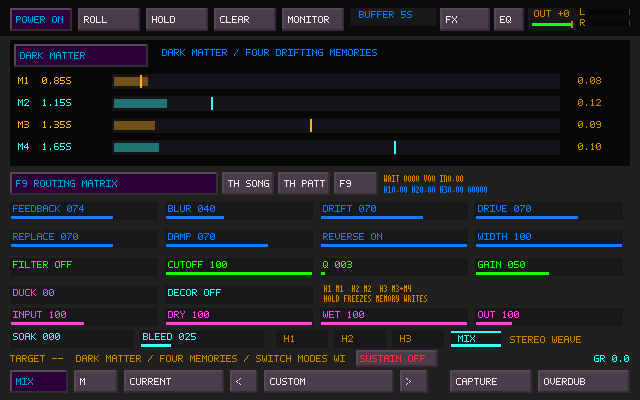
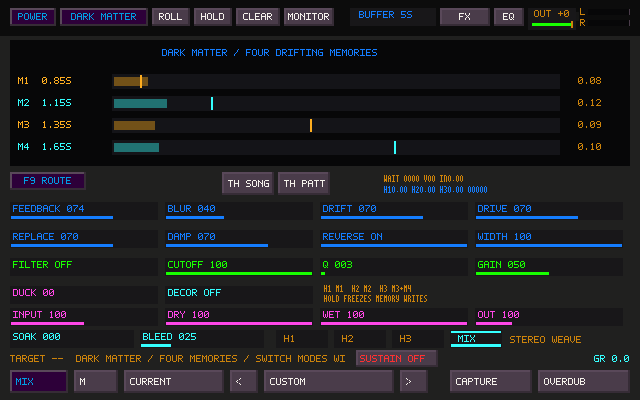
Balance Sister memory modes and compact the header controls
Latch bounded stereo RMS compensation at mode transitions while preserving
memory dynamics between switches. Move Tape/Dark Matter beside Power,
shrink the transport and F9 controls, and restore the full waveform area.

Add gain, waveform and controller regressions; refresh the native screenshot.

diff --git a/src/ts_ui.c b/src/ts_ui.c
@@ -5339,6 +5339,18 @@ static void sister_target_toggle(TsFramebuffer *fb, int x, int y, int width,
     text(fb, x + 8, y + 5, label, active ? color : PAL_MOUSE, 1);
 }
 
+static void sister_compact_button(TsFramebuffer *fb, int x, int y, int width,
+                                   const char *label, int active)
+{
+    bevel_frame(fb, x, y, width, TS_SISTER_UI_HEADER_H,
+        active ? PAL_BLOCK : PAL_BUTTON,
+        contrast_color(PAL_BUTTON, active_palette()->buttons_contrast, 1.5f),
+        contrast_color(PAL_BUTTON, active_palette()->buttons_contrast, 0.5f));
+    text(fb, x + (width - (int)strlen(label)*6)/2, y + 5, label,
+        active ? PAL_BLOCK_TEXT : ts_theme_color(active_palette(), render_group,
+            TS_COLOR_TEXT, RGB(245, 242, 235)), 1);
+}
+
 static uint32_t sister_spirit_hash(int x, int y)
 {
     uint32_t value = (uint32_t)x * UINT32_C(0x45d9f3b) ^
@@ -5537,11 +5549,17 @@ void ts_sister_ui_render(TsFramebuffer *fb, const TsSisterUiModel *model,
     master_output = master_output_from_routing(&model->routing);
     clear(fb, PAL_DESKTOP);
     rect(fb, 0, 0, TS_SISTER_UI_WIDTH, 36, ts_theme_color(active_palette(), render_group, TS_COLOR_BACKGROUND, RGB(12, 12, 12)));
-    button(fb, 10, 8, 62, model->routing.enabled ? "POWER ON" : "POWER", model->routing.enabled);
-    button(fb, 78, 8, 62, "ROLL", model->routing.rolling);
-    button(fb, 146, 8, 62, "HOLD", model->routing.held);
-    button(fb, 214, 8, 62, "CLEAR", model->engine.clear_state != TS_SISTER_CLEAR_IDLE);
-    button(fb, 282, 8, 62, "MONITOR", model->routing.monitor_enabled);
+    sister_compact_button(fb, TS_SISTER_UI_POWER_X, TS_SISTER_UI_HEADER_Y,
+        TS_SISTER_UI_POWER_W, "POWER", model->routing.enabled);
+    sister_compact_button(fb, TS_SISTER_UI_MODE_X, TS_SISTER_UI_HEADER_Y,
+        TS_SISTER_UI_MODE_W, model->parameters.memory_mode==TS_SISTER_MEMORY_DARK ?
+        "DARK MATTER" : "TAPE", model->parameters.memory_mode==TS_SISTER_MEMORY_DARK);
+    if (ts_sister_ui_parameter_locked(model,TS_DARK_PARAM_MODE))
+        rect(fb,TS_SISTER_UI_MODE_X+2,TS_SISTER_UI_HEADER_Y+2,2,2,PAL_MOUSE);
+    sister_compact_button(fb, 152, 8, 38, "ROLL", model->routing.rolling);
+    sister_compact_button(fb, 194, 8, 38, "HOLD", model->routing.held);
+    sister_compact_button(fb, 236, 8, 44, "CLEAR", model->engine.clear_state != TS_SISTER_CLEAR_IDLE);
+    sister_compact_button(fb, 284, 8, 50, "MONITOR", model->routing.monitor_enabled);
     {
         float target = model->parameters.buffer_seconds;
         float current = (float)model->engine.duration_seconds;
@@ -5557,15 +5575,15 @@ void ts_sister_ui_render(TsFramebuffer *fb, const TsSisterUiModel *model,
             snprintf(canvas, sizeof(canvas), "BUFFER %.0FS", target);
         sister_choice_parameter_state(fb, 350, 8, 86, "", canvas,
             model->engine.resize_pending, PAL_TUNING, locked);
-        rect(fb, 351, 25, (int)lrintf(84.0f * sister_clamp(amount)), 3,
+        rect(fb, 351, 23, (int)lrintf(84.0f * sister_clamp(amount)), 3,
              color);
     }
-    button(fb, 440, 8, 50,
+    sister_compact_button(fb, 440, 8, 50,
            model->fx_page == 0 ? "FX" :
            model->fx_page == 1 ? "FALL" :
            model->fx_page == 2 ? "PRISM" : "TAPE",
            model->fx_page != 0);
-    button(fb, 494, 8, 30, "EQ", 0);
+    sister_compact_button(fb, 494, 8, 30, "EQ", 0);
     master_output_fader(fb, model->routing.master_output_gain, 528, 8);
     master_output_meter(fb, &master_output, 580, 8);
     rect(fb, 576, 12, 3, 9,
@@ -5926,11 +5944,11 @@ void ts_sister_ui_render(TsFramebuffer *fb, const TsSisterUiModel *model,
     if (!model->routing.enabled ||
         model->power_visual != TS_SISTER_UI_POWER_VISUAL_NONE)
         sister_spirit_render(fb, model);
-    button(fb,14,44,134,model->parameters.memory_mode==TS_SISTER_MEMORY_DARK?"DARK MATTER":"TAPE MODE",model->parameters.memory_mode==TS_SISTER_MEMORY_DARK);
     if(model->parameters.memory_mode!=TS_SISTER_MEMORY_DARK) button(fb, 600, 144, 24,
            ts_waveform_display_letter(model->waveform_mode),
            model->waveform_mode != TS_WAVEFORM_DISPLAY_STEREO);
-    if(model->matrix_routing)button(fb,10,172,208,"F9 ROUTING MATRIX",1);
+    if(model->matrix_routing)sister_compact_button(fb,TS_SISTER_UI_ROUTE_X,
+        TS_SISTER_UI_ROUTE_Y,TS_SISTER_UI_ROUTE_W,"F9 ROUTE",1);
     else {
     button(fb, 10, 172, 44, "TILES",
            model->routing.source_switches & TS_SISTER_SOURCE_TILES);
@@ -5945,8 +5963,9 @@ void ts_sister_ui_render(TsFramebuffer *fb, const TsSisterUiModel *model,
     }
     button(fb, 222, 172, 52, "TH SONG", model->tapehead_song_playing);
     button(fb, 278, 172, 52, "TH PATT", model->tapehead_pattern_playing);
-    button(fb, 334, 172, 44, model->matrix_routing?"F9":"TRACK",
-           model->routing.source_switches & TS_SISTER_SOURCE_TRACK);
+    if (!model->matrix_routing)
+        button(fb, 334, 172, 44, "TRACK",
+               model->routing.source_switches & TS_SISTER_SOURCE_TRACK);
     /* Diagnostics share a bounded two-line well beside the source buttons.
        The TRACK switch occupies the old head-meter text position. */
     char source_status[35];

diff --git a/src/ts_sister_machine.c b/src/ts_sister_machine.c
@@ -762,6 +762,10 @@ static void reset_runtime_state(TsSisterMachine *machine, int clear_buffer,
     if (clear_buffer) { ts_sister_buffer_clear(&machine->buffer); ts_dark_matter_clear(&machine->dark); }
     ts_dark_matter_set(&machine->dark, &machine->parameters.dark, machine->parameters.buffer_seconds);
     ramp_reset(&machine->dark_blend, machine->parameters.memory_mode == TS_SISTER_MEMORY_DARK ? 1.f : 0.f);
+    ramp_reset(&machine->dark_output_gain, 1.f);
+    memset(machine->mode_energy, 0, sizeof(machine->mode_energy));
+    machine->mode_meter_frames = 0;
+    machine->mode_energy_coefficient = 1.f - expf(-1.f / machine->buffer.sample_rate);
     if (reset_clock) machine->master_clock = 0u;
     h1_delay = clampd((double)machine->parameters.head1_time_ms *
                       (double)machine->buffer.sample_rate / 1000.0,
@@ -1072,8 +1076,18 @@ void ts_sister_machine_set_parameters(TsSisterMachine *machine,
     next = sanitize_parameters(machine, parameters);
     ts_dark_matter_set(&machine->dark, &next.dark, next.buffer_seconds);
     float dark_target = next.memory_mode == TS_SISTER_MEMORY_DARK ? 1.f : 0.f;
-    if (machine->dark_blend.target != dark_target)
-        ramp_set(&machine->dark_blend, dark_target, milliseconds_frames(machine->buffer.sample_rate, 200));
+    if (machine->dark_blend.target != dark_target) {
+        uint32_t frames = milliseconds_frames(machine->buffer.sample_rate, 200);
+        /* Match the two live memories only at a mode change. Freeze the trim
+           between changes so swells and decays are not compressed away.
+           Empty/quiet memories never cause an automatic gain boost. */
+        if (machine->mode_meter_frames > machine->dark.bank[3].length + machine->buffer.sample_rate &&
+            machine->mode_energy[0] > 1e-8f && machine->mode_energy[1] > 1e-8f) {
+            float gain = sqrtf(machine->mode_energy[0] / machine->mode_energy[1]);
+            ramp_set(&machine->dark_output_gain, clampf(gain, .125f, 8.f), frames);
+        }
+        ramp_set(&machine->dark_blend, dark_target, frames);
+    }
     if ((double)machine->buffer.capacity_frames /
             machine->buffer.sample_rate >= TS_SISTER_MIN_SECONDS &&
         fabsf(next.buffer_seconds -
@@ -1207,6 +1221,9 @@ int ts_sister_machine_perform_clear(TsSisterMachine *machine)
     if (!ts_sister_machine_can_clear(machine)) return 0;
     ts_sister_buffer_clear(&machine->buffer);
     ts_dark_matter_clear(&machine->dark);
+    memset(machine->mode_energy, 0, sizeof(machine->mode_energy));
+    machine->mode_meter_frames = 0;
+    ramp_reset(&machine->dark_output_gain, 1.f);
     memset(machine->dc_input_x1, 0, sizeof(machine->dc_input_x1));
     memset(machine->dc_input_y1, 0, sizeof(machine->dc_input_y1));
     memset(machine->filter_state, 0, sizeof(machine->filter_state));
@@ -1885,8 +1902,27 @@ static TsStereoFrame process_internal(TsSisterMachine *machine,
     ts_dark_matter_process(&machine->dark, dark_input,
         machine->rolling && !machine->held && machine->clear_state != TS_SISTER_CLEAR_WAITING,
         machine->buffer.channels == 1u, dark_heads);
+    {
+        TsStereoFrame tape = {0,0}, dark = {0,0};
+        for (size_t i=0;i<TS_SISTER_HEAD_COUNT;++i) {
+            float gain = machine->head[i].level.current;
+            if (i > 0) gain *= machine->drop[i-1].gain.current;
+            tape = frame_add(tape, frame_scale(raw[i], gain));
+            dark = frame_add(dark, dark_heads[i]);
+        }
+        const TsStereoFrame meter[2] = {tape,dark};
+        for (int i=0;i<2;++i) {
+            float energy = .5f*(meter[i].l*meter[i].l + meter[i].r*meter[i].r);
+            machine->mode_energy[i] += machine->mode_energy_coefficient *
+                (energy - machine->mode_energy[i]);
+            if (machine->mode_energy[i] < 1e-20f) machine->mode_energy[i] = 0;
+        }
+        ++machine->mode_meter_frames;
+    }
+    float dark_gain = ramp_advance(&machine->dark_output_gain);
     if (dark_mix > 0) {
-        for (size_t i=0;i<TS_SISTER_HEAD_COUNT;++i) raw[i]=frame_lerp(raw[i], dark_heads[i], dark_mix);
+        for (size_t i=0;i<TS_SISTER_HEAD_COUNT;++i)
+            raw[i]=frame_lerp(raw[i], frame_scale(dark_heads[i],dark_gain), dark_mix);
         feedback1_gain *= 1-dark_mix; feedback2_gain *= 1-dark_mix;
     }
 

diff --git a/tests/test_dark_matter.c b/tests/test_dark_matter.c
@@ -140,6 +140,56 @@ static void persistence(void)
     assert(!ts_dark_matter_controls_read(&c,".9,0,0,0,0,0,4294967296,0"));
     remove(project);remove(preset);remove(ini);
 }
+static void mode_level_matching(void)
+{
+    /* Reproduce the large jump with a sustained sound and several Tape heads.
+       Matching must act on the audible return, never on either memory. */
+    const int rate=8000;
+    TsSisterMachine m;assert(ts_sister_machine_init(&m,rate,2,5));
+    TsSisterParameters p=m.parameters;p.buffer_seconds=5;
+    p.head1_level=.58f;p.head2_level=.42f;p.head3_level=.32f;
+    ts_sister_machine_set_parameters(&m,&p);
+    for(int i=0;i<rate*12;++i) {
+        float v=.1f*sinf(i*6.28318530718f*223/rate);
+        ts_sister_machine_process_frame(&m,(TsStereoFrame){v,v*.8f},(TsStereoFrame){0,0});
+    }
+    ts_sister_machine_set_hold(&m,1);
+    double tape=0,dark=0;
+    for(int i=0;i<rate*4;++i) {
+        TsSisterOutput out=ts_sister_machine_process_frame(&m,(TsStereoFrame){0,0},(TsStereoFrame){0,0});
+        if(i>=rate*2)tape+=out.mix.l*out.mix.l+out.mix.r*out.mix.r;
+    }
+    TsStereoFrame retained=m.dark.storage[0];
+    p.memory_mode=TS_SISTER_MEMORY_DARK;ts_sister_machine_set_parameters(&m,&p);
+    float trim=m.dark_output_gain.target;
+    assert(trim>2 && trim<=8); /* Old uncalibrated path is much quieter here. */
+    for(int i=0;i<rate*4;++i) {
+        TsSisterOutput out=ts_sister_machine_process_frame(&m,(TsStereoFrame){0,0},(TsStereoFrame){0,0});
+        assert(isfinite(out.mix.l) && fabsf(out.mix.l)<=1);
+        if(i>=rate*2)dark+=out.mix.l*out.mix.l+out.mix.r*out.mix.r;
+    }
+    float difference=10*log10(dark/tape);
+    printf("Mode level match: %+.2f dB, trim %.2f\n",difference,trim);
+    assert(fabsf(difference)<3);
+    assert(m.dark_output_gain.current==trim); /* Frozen between switches. */
+    assert(!memcmp(&retained,&m.dark.storage[0],sizeof(retained)));
+    /* Dynamics stay intact: even a later feedback/drive change cannot
+       continuously chase the output and flatten Dark Matter's evolution. */
+    p.dark.drive=.9f;ts_sister_machine_set_parameters(&m,&p);
+    assert(m.dark_output_gain.target==trim);
+    p.memory_mode=TS_SISTER_MEMORY_TAPE;ts_sister_machine_set_parameters(&m,&p);
+    assert(m.dark_output_gain.target>=.125f && m.dark_output_gain.target<=8);
+    ts_sister_machine_free(&m);
+
+    assert(ts_sister_machine_init(&m,rate,2,5));p=m.parameters;
+    for(int i=0;i<rate*4;++i)ts_sister_machine_process_frame(&m,(TsStereoFrame){0,0},(TsStereoFrame){0,0});
+    p.memory_mode=TS_SISTER_MEMORY_DARK;ts_sister_machine_set_parameters(&m,&p);
+    assert(m.dark_output_gain.target==1); /* Silence cannot request a boost. */
+    assert(ts_sister_machine_clear_offline(&m));
+    assert(m.mode_energy[0]==0 && m.mode_energy[1]==0 &&
+           m.mode_meter_frames<(uint64_t)rate && m.dark_output_gain.current==1);
+    ts_sister_machine_free(&m);
+}
 static void benchmark(void)
 {
     TsDarkMatter d;assert(ts_dark_matter_init(&d,48000,40));TsStereoFrame h[3];
@@ -155,6 +205,6 @@ static void benchmark(void)
 int main(int argc,char **argv)
 {
     if(argc>1 && !strcmp(argv[1],"--bench")){benchmark();return 0;}
-    streaming();memory_topology();deterministic_stereo();integrated_machine();persistence();
+    streaming();memory_topology();deterministic_stereo();integrated_machine();mode_level_matching();persistence();
     puts("Dark Matter: memory exchange, replace, reverse, stereo, lifecycle and persistence passed.");return 0;
 }

diff --git a/src/ts_sister_ui.c b/src/ts_sister_ui.c
@@ -435,12 +435,15 @@ TsSisterUiHit ts_sister_ui_hit_test_model(const TsSisterUiModel *model,
         return hit;
     }
     for (int control = 0; control < 5; ++control) {
-        if (contains(x, y, 10 + control * 68, 8, 62, 22)) {
+        static const int left[5] = {TS_SISTER_UI_POWER_X, 152, 194, 236, 284};
+        static const int width[5] = {TS_SISTER_UI_POWER_W, 38, 38, 44, 50};
+        if (contains(x, y, left[control], TS_SISTER_UI_HEADER_Y,
+                     width[control], TS_SISTER_UI_HEADER_H)) {
             hit.action = transport[control];
             return hit;
         }
     }
-    if (contains(x, y, 494, 8, 30, 22)) {
+    if (contains(x, y, 494, 8, 30, TS_SISTER_UI_HEADER_H)) {
         hit.action = TS_SISTER_UI_ACTION_LIMITER_TOGGLE;
         return hit;
     }
@@ -450,7 +453,8 @@ TsSisterUiHit ts_sister_ui_hit_test_model(const TsSisterUiModel *model,
         hit.normalized = (float)(x - 528) / 47.0f;
         return hit;
     }
-    if ((!model || model->fx_page==0) && contains(x,y,14,44,134,22)) {
+    if (contains(x,y,TS_SISTER_UI_MODE_X,TS_SISTER_UI_HEADER_Y,
+                 TS_SISTER_UI_MODE_W,TS_SISTER_UI_HEADER_H)) {
         hit.action=TS_SISTER_UI_ACTION_PARAMETER; hit.index=TS_DARK_PARAM_MODE;
         hit.normalized=model && model->parameters.memory_mode==TS_SISTER_MEMORY_DARK?0:1; return hit;
     }
@@ -460,13 +464,13 @@ TsSisterUiHit ts_sister_ui_hit_test_model(const TsSisterUiModel *model,
         hit.action = TS_SISTER_UI_ACTION_WAVE_MODE;
         return hit;
     }
-    if (contains(x, y, 350, 8, 86, 22)) {
+    if (contains(x, y, 350, 8, 86, TS_SISTER_UI_HEADER_H)) {
         hit.action = TS_SISTER_UI_ACTION_PARAMETER;
         hit.index = TS_SISTER_UI_PARAM_BUFFER_SECONDS;
         hit.normalized = (float)(x - 350) / 85.0f;
         return hit;
     }
-    if (contains(x, y, 440, 8, 50, 22)) {
+    if (contains(x, y, 440, 8, 50, TS_SISTER_UI_HEADER_H)) {
         hit.action = TS_SISTER_UI_ACTION_PAGE;
         return hit;
     }
@@ -730,10 +734,15 @@ TsSisterUiHit ts_sister_ui_hit_test_model(const TsSisterUiModel *model,
         return hit;
     }
     {
-        if(model && model->matrix_routing && contains(x,y,10,172,208,20)){hit.action=TS_SISTER_UI_ACTION_SOURCE_TILES;return hit;}
+        if(model && model->matrix_routing &&
+           contains(x,y,TS_SISTER_UI_ROUTE_X,TS_SISTER_UI_ROUTE_Y,
+                    TS_SISTER_UI_ROUTE_W,TS_SISTER_UI_ROUTE_H)) {
+            hit.action=TS_SISTER_UI_ACTION_SOURCE_TILES;return hit;
+        }
         static const int source_left[6] = {10, 58, 90, 128, 170, 334};
         static const int source_width[6] = {44, 28, 34, 38, 48, 44};
         for (int source = 0; source < TS_SISTER_SOURCE_COUNT; ++source) {
+            if (model && model->matrix_routing) break;
             if (!contains(x, y, source_left[source], 172,
                           source_width[source], 20)) continue;
             hit.action = (TsSisterUiAction)(TS_SISTER_UI_ACTION_SOURCE_TILES + source);

diff --git a/tests/test_sister_ui_model.c b/tests/test_sister_ui_model.c
@@ -137,6 +137,17 @@ int main(void)
     CHECK(ts_sister_ui_hit_test_model(&model, 540, 150).action ==
           TS_SISTER_UI_ACTION_NONE);
     CHECK(ts_sister_ui_hit_test(455, 10).action == TS_SISTER_UI_ACTION_PAGE);
+    hit=ts_sister_ui_hit_test_model(&model,100,16);
+    CHECK(hit.action==TS_SISTER_UI_ACTION_PARAMETER && hit.index==TS_DARK_PARAM_MODE);
+    CHECK(ts_sister_ui_hit_test_model(&model,70,50).action==TS_SISTER_UI_ACTION_NONE);
+    CHECK(ts_sister_ui_hit_test_model(&model,165,16).action==TS_SISTER_UI_ACTION_ROLL);
+    CHECK(ts_sister_ui_hit_test_model(&model,210,16).action==TS_SISTER_UI_ACTION_HOLD);
+    CHECK(ts_sister_ui_hit_test_model(&model,250,16).action==TS_SISTER_UI_ACTION_CLEAR);
+    CHECK(ts_sister_ui_hit_test_model(&model,300,16).action==TS_SISTER_UI_ACTION_MONITOR);
+    model.matrix_routing=1;
+    CHECK(ts_sister_ui_hit_test_model(&model,50,180).action==TS_SISTER_UI_ACTION_SOURCE_TILES);
+    CHECK(ts_sister_ui_hit_test_model(&model,150,180).action==TS_SISTER_UI_ACTION_NONE);
+    model.matrix_routing=0;
     hit = ts_sister_ui_hit_test(360, 10);
     CHECK(hit.action == TS_SISTER_UI_ACTION_PARAMETER &&
           hit.index == TS_SISTER_UI_PARAM_BUFFER_SECONDS);
@@ -402,12 +413,12 @@ int main(void)
           palette.colors[TS_PALETTE_PATTERN_NOTE]);
     CHECK(framebuffer.pixels[344u * TS_UI_WIDTH + 145u] ==
           palette.colors[TS_PALETTE_PATTERN_EFFECT]);
-    /* A peak between the old sampled bins must survive width reduction.
-       Probe outside the memory-mode button above the left waveform. */
+    /* A peak between sampled bins survives width reduction, including the
+       area formerly covered by the oversized memory-mode button. */
     memset(model.waveform.bins,0,sizeof(model.waveform.bins));
-    model.waveform.bins[1400].left_maximum=.75f;
+    model.waveform.bins[700].left_maximum=.75f;
     ts_sister_ui_render(&framebuffer,&model,&palette);
-    CHECK(framebuffer.pixels[55u*TS_UI_WIDTH+231u]==palette.colors[TS_PALETTE_STEREO_WAVE_LEFT]);
+    CHECK(framebuffer.pixels[55u*TS_UI_WIDTH+128u]==palette.colors[TS_PALETTE_STEREO_WAVE_LEFT]);
     model.routing.capture_state = TS_CAPTURE_RECORDING;
     model.routing.capture_recorded_frames = 25u;
     model.routing.capture_capacity_frames = 100u;

diff --git a/tests/test_dark_matter_controller.c b/tests/test_dark_matter_controller.c
@@ -27,7 +27,7 @@ int main(int argc,char **argv)
     ts_sister_ui_model_init(&sister.model,&ui.config);sister.model.fx_page=0;
     sister.model.parameters=a.sister.parameters;
     TsStereoFrame *storage=a.sister.machine.dark.storage;
-    click(70,50);assert(a.sister.parameters.memory_mode==TS_SISTER_MEMORY_DARK);
+    click(100,16);assert(a.sister.parameters.memory_mode==TS_SISTER_MEMORY_DARK);
     assert(ui.config.sister_memory_mode==TS_SISTER_MEMORY_DARK);
     for(int i=0;i<7;++i) {
         int id=TS_DARK_PARAM_FEEDBACK+i;
@@ -43,7 +43,7 @@ int main(int argc,char **argv)
     TsSisterUiHit midi;assert(midi_sister_hit_from_target("sister.param.3002",.4f,&midi));
     sister_apply_action(0,&a,&ui,&instrument,&sister,NULL,NULL,midi,48000,2);
     assert(a.sister.parameters.dark.blur==.4f);
-    char target[80];assert(ts_sister_ui_midi_target(ts_sister_ui_hit_test_model(&sister.model,70,50),target,sizeof(target)));
+    char target[80];assert(ts_sister_ui_midi_target(ts_sister_ui_hit_test_model(&sister.model,100,16),target,sizeof(target)));
     assert(!strcmp(target,"sister.param.3000"));
     for(int i=0;i<48000*6;++i) {
         TsStereoFrame v={.2f*sinf(i*.03f),.15f*sinf(i*.041f)};
@@ -62,8 +62,9 @@ int main(int argc,char **argv)
         SDL_Surface *surface=SDL_CreateRGBSurfaceFrom(fb.pixels,640,400,32,640*4,0xff0000,0xff00,0xff,0);
         assert(surface && !SDL_SaveBMP(surface,argv[1]));SDL_FreeSurface(surface);
     }
+    click(100,16);assert(a.sister.parameters.memory_mode==TS_SISTER_MEMORY_TAPE);
     click(70,50);assert(a.sister.parameters.memory_mode==TS_SISTER_MEMORY_TAPE);
-    click(70,50);assert(a.sister.parameters.memory_mode==TS_SISTER_MEMORY_DARK);
+    click(100,16);assert(a.sister.parameters.memory_mode==TS_SISTER_MEMORY_DARK);
     assert(a.sister.machine.dark.storage==storage);
     ts_sister_runtime_disable(&a.sister);ts_instrument_free(&instrument);SDL_Quit();
     puts("Dark Matter native switch, controls, MIDI and rendering passed.");return 0;

diff --git a/include/tapesister/sister_ui.h b/include/tapesister/sister_ui.h
@@ -8,6 +8,12 @@
 #include "tapesister/ui.h"
 
 enum { TS_SISTER_UI_WIDTH = 640, TS_SISTER_UI_HEIGHT = 400 };
+/* Compact shared header; no mode control belongs inside the waveform. */
+enum { TS_SISTER_UI_HEADER_Y = 8, TS_SISTER_UI_HEADER_H = 18,
+       TS_SISTER_UI_POWER_X = 10, TS_SISTER_UI_POWER_W = 46,
+       TS_SISTER_UI_MODE_X = 60, TS_SISTER_UI_MODE_W = 88,
+       TS_SISTER_UI_ROUTE_X = 10, TS_SISTER_UI_ROUTE_Y = 172,
+       TS_SISTER_UI_ROUTE_W = 76, TS_SISTER_UI_ROUTE_H = 18 };
 /* Shared by rendering and hit testing; keep text and control heights intact. */
 enum { TS_SISTER_UI_FX_TOP = 48, TS_SISTER_UI_FX_ROW_STEP = 48,
        TS_SISTER_UI_FX_ROW_H = 46, TS_SISTER_UI_FX_CLOCK_Y = 294,

diff --git a/include/tapesister/sister_machine.h b/include/tapesister/sister_machine.h
@@ -234,6 +234,9 @@ typedef struct {
     TsSisterBuffer buffer;
     TsDarkMatter dark;
     TsSisterRamp dark_blend;
+    TsSisterRamp dark_output_gain;
+    float mode_energy[2], mode_energy_coefficient;
+    uint64_t mode_meter_frames;
     TsSisterParameters parameters;
     TsSisterParameters applied_parameters;
     TsSisterHeadState head[TS_SISTER_HEAD_COUNT];

diff --git a/docs/DARK_MATTER.md b/docs/DARK_MATTER.md
@@ -1,8 +1,9 @@
 # Sister Machine: Dark Matter
 
 Dark Matter is an optional, native drifting-memory mode inspired by SOMA COSMOS.
-On the Sister tape page, click **TAPE MODE** above the waveform to select
-**DARK MATTER**. Click again to return. The mode is MIDI-learnable and changes
+Click the compact **TAPE / DARK MATTER** switch beside **POWER** in Sister's
+top row to select the memory engine. It is available on every Sister page and
+leaves the waveform unobstructed. Click again to return. The mode is MIDI-learnable and changes
 over a 200 ms fade. It does not clear either memory or allocate on a mode change.
 
 Use F9 to route a tile, synth, TrackSister or external input into Sister and
@@ -56,6 +57,13 @@ storage. While POWER and ROLL are on, both hear the same incoming performance,
 so a first mode change can reveal existing material. Each continues its own
 memory evolution. Switching modes crossfades playback, rather than copying,
 clearing or pretending that the two different layouts are interchangeable.
+
+When both memories have established audible material, switching modes matches
+their recent stereo RMS levels with a bounded output trim (up to 18 dB either
+way), faded over the same 200 ms transition. The trim stays fixed between
+switches: it does not compress Dark Matter's swells or alter the stored audio,
+feedback, dry monitor, or shared OUT control. Empty/near-silent memories do not
+request a boost. Clear and device resets discard the live level measurements.
 
 HOLD or ROLL off freezes writes in both memories; reads and modulation continue.
 CLEAR clears both through the existing fade/control-thread handshake. Changing
